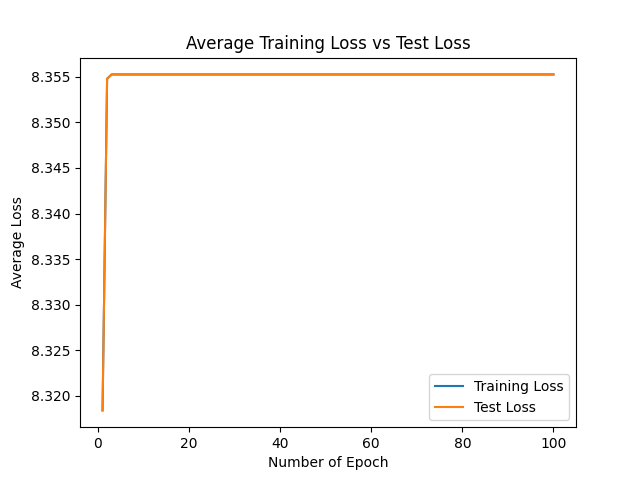
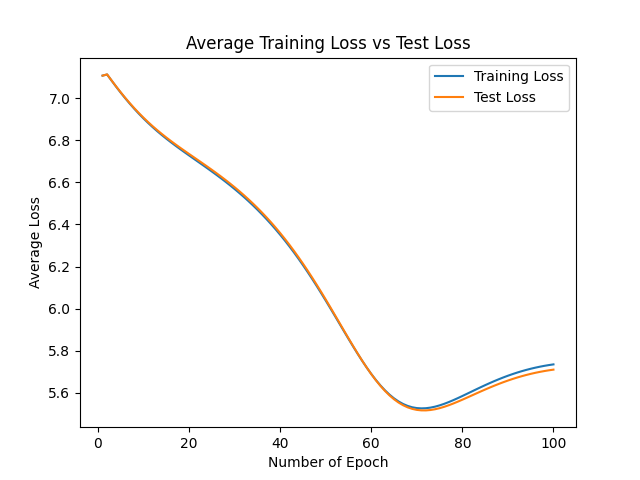
Add complete solution to homework questions

diff --git a/hw3/ANN.py b/hw3/ANN.py
@@ -105,7 +105,7 @@ class ANN:
                 y = train_y[i]
                 self.forward(x, y)
                 self.backward()
-            self.accuracy = self.compare(train_y, self.predict(train_x))
+            self.accuracy = self.compare(self.predict(train_x), train_y)
             self.accuracy_list.append(self.accuracy)
             self.loss_list.append(self.xeloss_mult(self.predict(train_x), train_y))
 
@@ -121,7 +121,7 @@ class ANN:
         return np.array(res)
 
     @staticmethod
-    def compare(y, y_pred):
+    def compare(y_pred, y):
         cnt = 0
         y1 = np.argmax(y, axis=1)
         y2 = np.argmax(y_pred, axis=1)
@@ -145,10 +145,12 @@ class ANN:
                 loss_total += self.loss
             train_pred = self.predict(train_x)
             test_pred = self.predict(test_x)
+            self.loss_list.append(self.xeloss_mult(train_pred, train_y))
             train_loss.append(self.xeloss_mult(train_pred, train_y))
             test_loss.append(self.xeloss_mult(test_pred, test_y))
-            train_accuracy.append(self.compare(train_y, train_pred))
-            test_accuracy.append(self.compare(test_y, test_pred))
+            self.accuracy_list.append(self.compare(test_pred, test_y))
+            train_accuracy.append(self.compare(train_pred, train_y))
+            test_accuracy.append(self.compare(test_pred, test_y))
             print("Epoch {} finished".format(e + 1))
         plt.figure()
         plt.plot([i + 1 for i in range(epoch)], train_loss, label="Training Loss")
@@ -166,7 +168,6 @@ if __name__ == "__main__":
     train_x, train_y = read_data("data/train.csv")
     test_x, test_y = read_data("data/test.csv")
 
-
     def new_model():
         # Initialize model
         Model = ANN(784, 256, 10, learning_rate=0.01)
@@ -178,8 +179,6 @@ if __name__ == "__main__":
         Model.beta_bias = read_params("params/beta2.txt")
         return Model
 
-
-    """
     Model = new_model()
     Model.fit([train_x[0]], [train_y[0]], epoch=1)
     print(Model.a[9])  # Q5.1, zero indexed so a[9] = a_{10}
@@ -194,23 +193,25 @@ if __name__ == "__main__":
 
     # Time for breakpoint
     Model = new_model()
-    # Model.fit(train_x, train_y, epoch=15)
-    # print(Model.loss_list)  # Q5.5
-    # print(Model.accuracy_list)  # Q5.6
-    Model.plot_loss(15, train_x, train_y, test_x, test_y, "result/15.png")
+    Model.fit(train_x, train_y, epoch=15)
+    print(Model.loss_list)  # Q5.5
+    print(Model.accuracy_list)  # Q5.6
     print("15 epoch finished")
-    
-    100 epochs
-    Model = new_model()
-    Model.plot_loss(100, train_x, train_y, test_x, test_y, "result/100.png")
 
+    # 100 epochs
+    Model = new_model()
+    Model.plot_loss(100, train_x, train_y, test_x, test_y, "result/100.png")  # Q5.7
+    print(Model.xeloss_mult(Model.predict(train_x), train_y))  # Q5.8.1
+    print(Model.compare(Model.predict(test_x), test_y))  # Q5.8.2
+
+    # Q5.9, three plots
     Model = ANN(784, 256, 10, learning_rate=0.01)
     Model.alpha = np.zeros((Model.D, Model.M))
     Model.alpha_bias = np.zeros((Model.D, 1))
     Model.beta = np.zeros((Model.K, Model.D))
     Model.beta_bias = np.zeros((Model.K, 1))
     Model.plot_loss(100, train_x, train_y, test_x, test_y, "result/zero.png")
-    """
+
     Model = ANN(784, 256, 10, learning_rate=0.01)
     Model.alpha = np.random.uniform(0, 1, (Model.D, Model.M)) / (Model.D * (Model.M + 1))
     Model.alpha_bias = np.random.uniform(0, 1, (Model.D, 1)) / (Model.D * (Model.M + 1))
@@ -218,11 +219,9 @@ if __name__ == "__main__":
     Model.beta_bias = np.random.uniform(0, 1, (Model.K, 1)) / (Model.K * (Model.D + 1))
     Model.plot_loss(100, train_x, train_y, test_x, test_y, "result/uniform.png")
 
-    """
     Model = ANN(784, 256, 10, learning_rate=0.01)
     Model.alpha = np.random.standard_normal((Model.D, Model.M))
     Model.alpha_bias = np.random.standard_normal((Model.D, 1))
     Model.beta = np.random.standard_normal((Model.K, Model.D))
     Model.beta_bias = np.random.standard_normal((Model.K, 1))
     Model.plot_loss(100, train_x, train_y, test_x, test_y, "result/normal.png")
-    """
